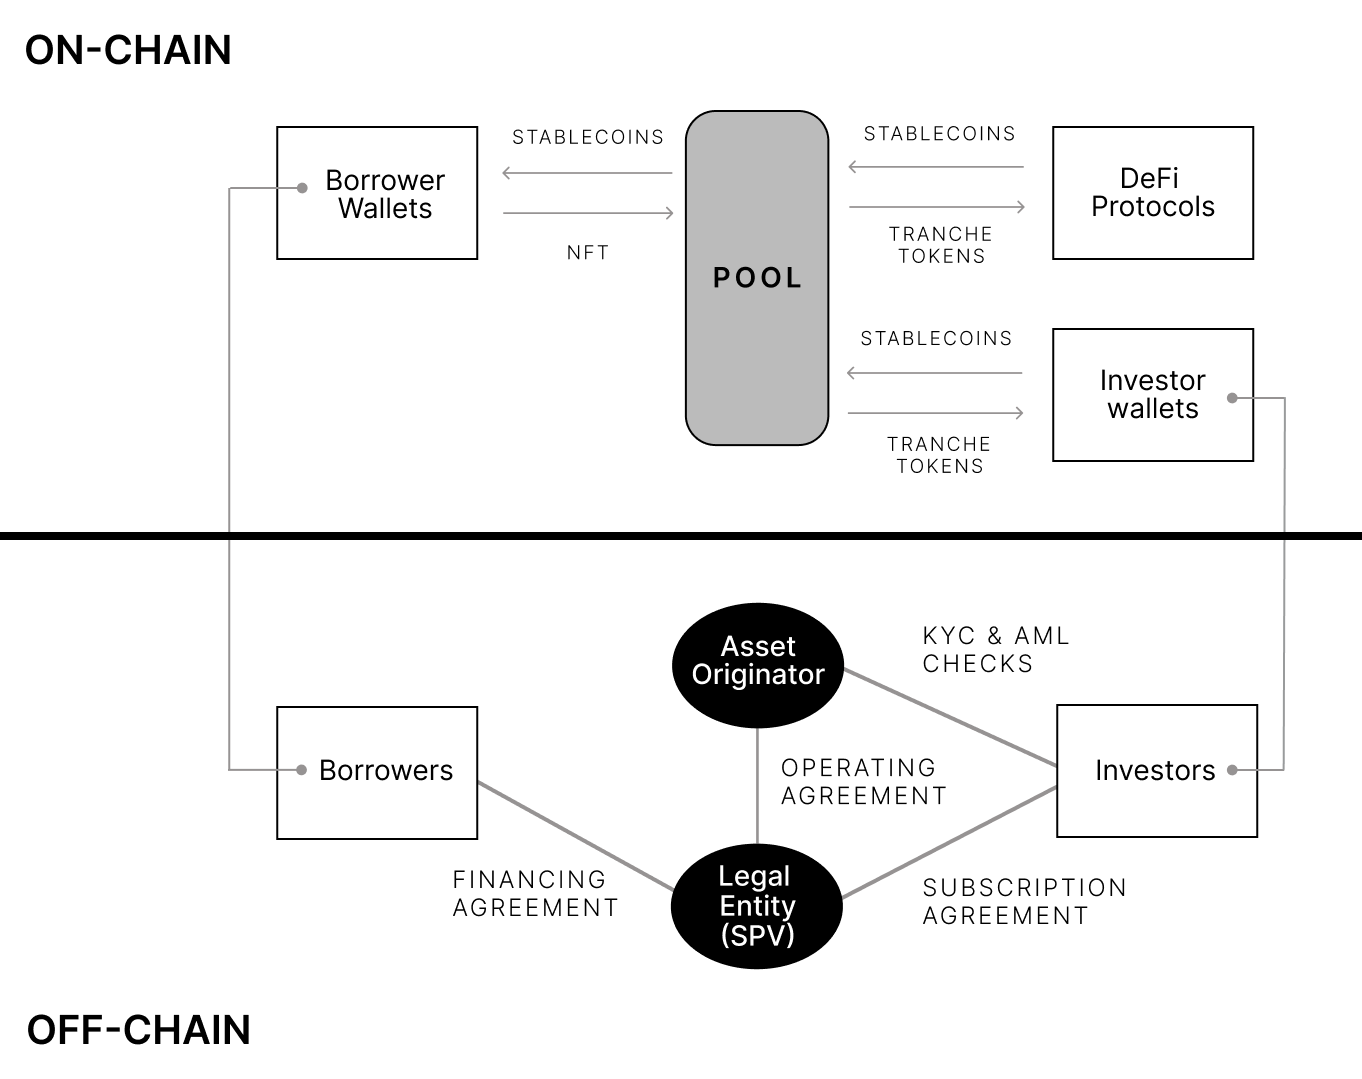
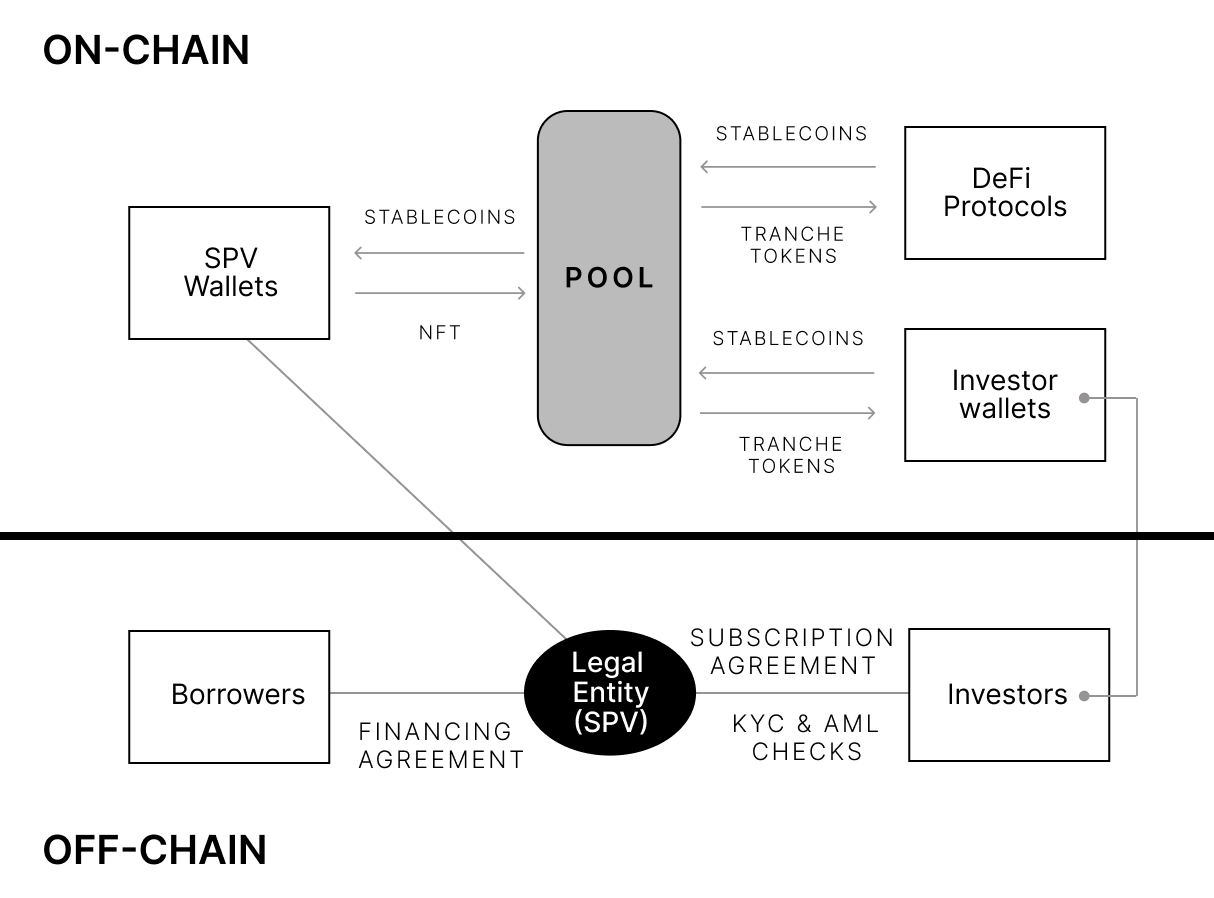
Update content

diff --git a/docs/getting-started/centrifuge-at-a-glance/index.md b/docs/getting-started/centrifuge-at-a-glance/index.md
@@ -7,19 +7,23 @@ redirect_from:
   - /getting-started/
 ---
 
-Credit is essential for a functioning economy and is a key driver for business growth. Yet only the largest businesses get direct access to liquid capital markets. This same access is not available to Small and Medium-sized Enterprises (SMEs). The average cost of capital for the Global 2000 is ~1%, compared to >15% for SMEs. This cannot be explained by the average default rate of SMEs of ~2%. The lack of an open and transparent marketplace denies SMEs access to competitive borrowing  rates.
+Centrifuge is the infrastructure that facilitates the decentralized financing of real-world assets natively on-chain, creating a fully transparent market which allows borrowers and lenders to transact without unnecessary intermediaries. Asset pools are fully collateralized, liquidity providers have legal recourse, and the protocol is asset-class agnostic with pools for assets spanning mortgages, invoices, microlending and consumer finance. Ultimately, the protocol aims to lower the cost of borrowing for businesses around the world, while providing DeFi users with a stable source of collateralized yield that is uncorrelated to the volatile crypto markets. By bringing the entire structured credit market on-chain across securitization, tokenization, privacy, governance, and liquidity integrations, Centrifuge is building a more transparent, affordable, and limitless financial system
 
-Centrifuge uses blockchain technologies to solve this problem. The key property of a blockchain is that it enables multiple parties to achieve agreement on shared information without a trusted intermediary. Financing real world assets requires many intermediaries to function right now, e.g. the shortlist of parties involved in a bond issuance includes a lead manager, managers, lawyers, paying agents, fiscal agents, auditors, registrars, transfer agents, calculation agents, listing agents, rating agents, process agents. All of these intermediaries add to the upfront and ongoing costs, increasing the barriers for small and medium enterprises compared to large corporations.
+## Te mission
+The Centrifuge Protocol is built to harness the power of blockchain technology & make finance accessible to all. Credit is essential for a functioning economy and is a key driver for business growth. Yet only the largest businesses get direct access to liquid capital markets. This same access is not available to Small and Medium-sized Enterprises (SMEs). The average cost of capital for the Global 2000 is ~1%, compared to >15% for SMEs. This cannot be explained by the average default rate of SMEs of ~2%. The lack of an open and transparent marketplace denies SMEs access to competitive borrowing  rates.
 
-If the rules of the financing process are coded into a blockchain, the reliance on these intermediaries can be greatly reduced, leading to a more open, transparent and efficient access to finance. Centrifuge does exactly this by combining the Centrifuge Protocol, the trustless consensus layer for real world asset transactions, with a legal framework that links the on-chain to off-chain transactions.
+Centrifuge Protocol uses blockchain technologies to solve this problem. The key property of a blockchain is that it enables multiple parties to achieve agreement on shared information without a trusted intermediary. Financing real world assets requires many intermediaries to function right now, e.g. the shortlist of parties involved in a bond issuance includes a lead manager, managers, lawyers, paying agents, fiscal agents, auditors, registrars, transfer agents, calculation agents, listing agents, rating agents, process agents. All of these intermediaries add to the upfront and ongoing costs, increasing the barriers for small and medium enterprises compared to large corporations.
 
-Centrifuge experimented with multiple versions of the previous iteration of the Centrifuge Protocol, called Tinlake, on Ethereum. It started with the first version in 2019, adding static pooling and simple tranching support in early 2020, launching the revolving pools late 2020, and integrating the first pool with the MakerDAO protocol in mid 2021. The lessons learned from these iterations have been used to develop the first version of the full fledged Centrifuge Protocol.
+If the financing process is coded into a blockchain, the reliance on these intermediaries can be greatly reduced, leading to a more open, transparent and efficient access to finance. Centrifuge does exactly this by combining the Centrifuge Protocol, the trustless consensus layer for real world asset transactions with a real-word framework that links the on-chain to off-chain transactions.
 
-## Overview of the Protocol
-The Centrifuge Protocol includes all the features needed to safely finance real world assets on a blockchain, from governance of the protocol, tokenization, securitization, up to liquidity integrations,  all built on each other. 
+## Evolution of Centrifuge Protocol
+Centrifuge experimented with multiple versions of the previous iteration of the Centrifuge Protocol, called Tinlake, on Ethereum. It started with the first version in 2019, adding static pooling and simple tranching support in early 2020, launching the revolving pools late 2020, and integrating the first pool with the MakerDAO protocol in mid 2021. The lessons learned from these iterations have been used to develop the first version of the full fledged Centrifuge Protocol. Every iteration has been thoroughly audited by acknowledged smart-contract auditing firms.
+
+## Features of Centrifuge Protocol
+The Centrifuge Protocol includes all the features needed to finance real world assets on a blockchain, from tokenization, securitization, up to liquidity integrations,  all built on each other and transparently governed by token holders. 
 
 ![](./images/protocol.png#width=60%;)
 
-The foundation of the Protocol is Centrifuge Chain, a layer-1 blockchain for real world assets, running as a parachain in the Polkadot ecosystem. The native token of Centrifuge Chain, CFG,  is used as an on-chain governance mechanism that empowers CFG holders to guide the development of the Centrifuge Protocol. Real-world assets are tokenized as NFTs (Non-Fungible Tokens) to create an on-chain representation, and are linked to off-chain data held privately. The assets are pooled together and securitized by the issuer. To bring liquidity to these assets, Connectors will be used to bridge to other blockchains, and liquidity integrations with DeFi protocols such as Maker, Aave, and more are already set up across the ecosystem.
+The foundation of the Protocol is Centrifuge Chain, a layer-1 blockchain for real world assets, running as a parachain in the Polkadot ecosystem. The native token of Centrifuge Chain, CFG, is used as an on-chain governance mechanism that empowers CFG holders to manage the development of the Centrifuge Protocol. Real-world assets are tokenized as NFTs (Non-Fungible Tokens) to create an on-chain representation, and are linked to detailed off-chain data. The assets are pooled together and securitized by the issuer. Connectors could be used to bridge to other blockchains. Integrations with DeFi protocols such as Maker, Aave, and more are already set up across the ecosystem.
 
 In the next sections, we will dive into these five key features of the Centrifuge Protocol.

diff --git a/docs/getting-started/privacy-first-tokenization/index.md b/docs/getting-started/privacy-first-tokenization/index.md
@@ -1,13 +1,13 @@
 ---
 id: privacy-first-tokenization
 order: 2
-title: Privacy-first tokenization
+title: Tokenization and customized data sharing
 ---
 
-At a fundamental level, there needs to be an on-chain representation of the off-chain, real world asset. For this, each borrower mints an NFT (Non Fungible Token). However, any information attached to these assets, about what they represent, will be public by default. With real world use cases, this is infeasible: investors will require access to extensive information about assets, but the issuer cannot publish all of this information.
+To create an on-chain representation of the off-chain, real world asset, each borrower mints an NFT (Non Fungible Token). This NFT contains the most important information required for pricing, financing and valuation and can be locked into pools on the Centrifuge protocol as representations of the collateral used for the financing. However, any on-chain information attached to these NFTs will be public by default. With real world use cases, investors often require access to extensive information about assets, but the issuer does not normally make this public information.
 
-The Centrifuge Private Data layer is the solution to this. A network of nodes connect with each other and share data across the network, similar to IPFS.  It is used to create documents and store these off-chain, and then anchor them on-chain. Anchoring is the process of providing proof that a certain document is present on the Private Data layer. This document can then be shared through the Private Data network with collaborators, defined by known identities which are stored on-chain. These can either be given read access, such as institutional investors in the pool, or write access can be given to specific fields, which makes use cases possible such as only allowing a third-party valuation agent to assess assets.
+The Private Data Layer of the Centrifuge Protocol solves this. It allows issuers and investors to access additional asset data securely and privately. This asset data is hashed and the hash anchored on-chain and added to the NFTs metadata to create a verifiable link to the NFT without making the data publicly available. 
+
+Technically, the Private Data Layer is a p2p-network of nodes called PODs (“Private Offchain Data Nodes)” connected with each other to securely share information. All actors using this network can decide with whom and how to share the asset level data. Collaborators can be given read access to more detailed off-chain asset data, e.g. for institutional investors in a pool. It is also possible to define write access to specific data fields, which makes use cases possible such as only allowing a third-party valuation agent to price assets.
 
 ![](./images/tokenization.png#width=30%;)
-
-The NFT that is minted for each asset then contains a reference to the anchor, creating a link between the on-chain representation of the asset (the NFT) and the off-chain, private information.

diff --git a/docs/getting-started/off-chain/index.md b/docs/getting-started/off-chain/index.md
@@ -8,11 +8,9 @@ The legal setup for each pool is designed to mirror the protocol structure and t
 
 Each pool has a legal entity tied to it, a special purpose vehicle (SPV). The SPV keeps the pool issuer’s business separate from the financing activity in the pool and ensures the assets in the pool are bankruptcy remote from the issuer and borrowers. An Operating Agreement defines the operations of the SPV. To tokenize assets, the legal ownership of the assets is transferred to the SPV. 
 
-
 ![](./images/legal-structure.png#width=70%;)
 
-If an asset defaults, the pool issuer is responsible for recovering the capital. The process for this depends on the asset class. For example, an issuer might aim to buy out and replace any non-performing loan with a performing loan, and then deal with collections on their own balance sheet. When cash comes in from the recovery process, the proceeds will be distributed to the token holders as the borrower pays back the loan partially or fully.
+If an asset defaults, the pool issuer is responsible for recovering the capital. The process for this depends on the asset class. For example, an issuer might aim to buy out and replace any non-performing loan with a performing loan, and then deal with collections on their own balance sheet. When cash comes in from the recovery process, the proceeds will be converted to stablecoins and distributed to the token holders as the borrower pays back the loan partially or fully.
 
 ## Onboarding & KYC
-To onboard investors for a pool, the issuer of the pool needs to ensure KYC & AML regulations are met. Centrifuge has developed an automated onboarding system as a service to the issuers. Service providers verify investor contact information and check accreditation 
-for US-based investors, and more. Investors then enter into a Subscription Agreement with the issuer.
+To onboard investors for a pool, the issuer of the pool needs to ensure KYC & AML regulations are met as well as accredited investor verification and tax form submission. Centrifuge utilizes a third party e-KYC provider for an integrated onboarding system as a service to the issuers. Service providers verify investor KYC information and check accredited investor status for US-based investors. Investors can then enter into a Subscription Agreement with the issuer.

diff --git a/docs/getting-started/cent-chain/index.md b/docs/getting-started/cent-chain/index.md
@@ -16,8 +16,4 @@ The advantages of a blockchain custom built for RWA include:
 To experiment with new features and act as an incentivized testnet, Altair is the canary network of Centrifuge Chain. New features will be released first on Altair, to test these with real value and thus increase confidence in the reliability and security of the protocol features released on Centrifuge Chain.
 
 ## Governed by CFG holders
-Centrifuge Chain has a formalized governance system that is encoded on-chain utilizing the Substrate democracy pallet. This enables on-chain voting mechanisms for binding and transparent governance by CFG token holders. Beyond the use of the Centrifuge token (CFG) for governance of the blockchain, it also has additional utility through:
-- *Transaction fees*: Fees for transactions submitted to Centrifuge Chain are paid in CFG.
-- *Origination fees*: With pools, borrowers will pay protocol fees that will go into the on-chain treasury.
-- *Staking to launch pools*: As new pools go live, token holders will be able to indicate trustworthy pools by staking to them.
-- *Rewards to incentivize users of the Protocol*: The Protocol can offer incentives not just to liquidity providers, but also to other actors such as underwriters and service providers.
+Centrifuge Chain has a formalized governance system that is encoded on-chain utilizing the Substrate democracy pallet. This enables on-chain voting mechanisms for binding and transparent governance by CFG token holders. Beyond the use of the Centrifuge token (CFG) for governance of the blockchain, CFG is also used to pay transaction fees.
